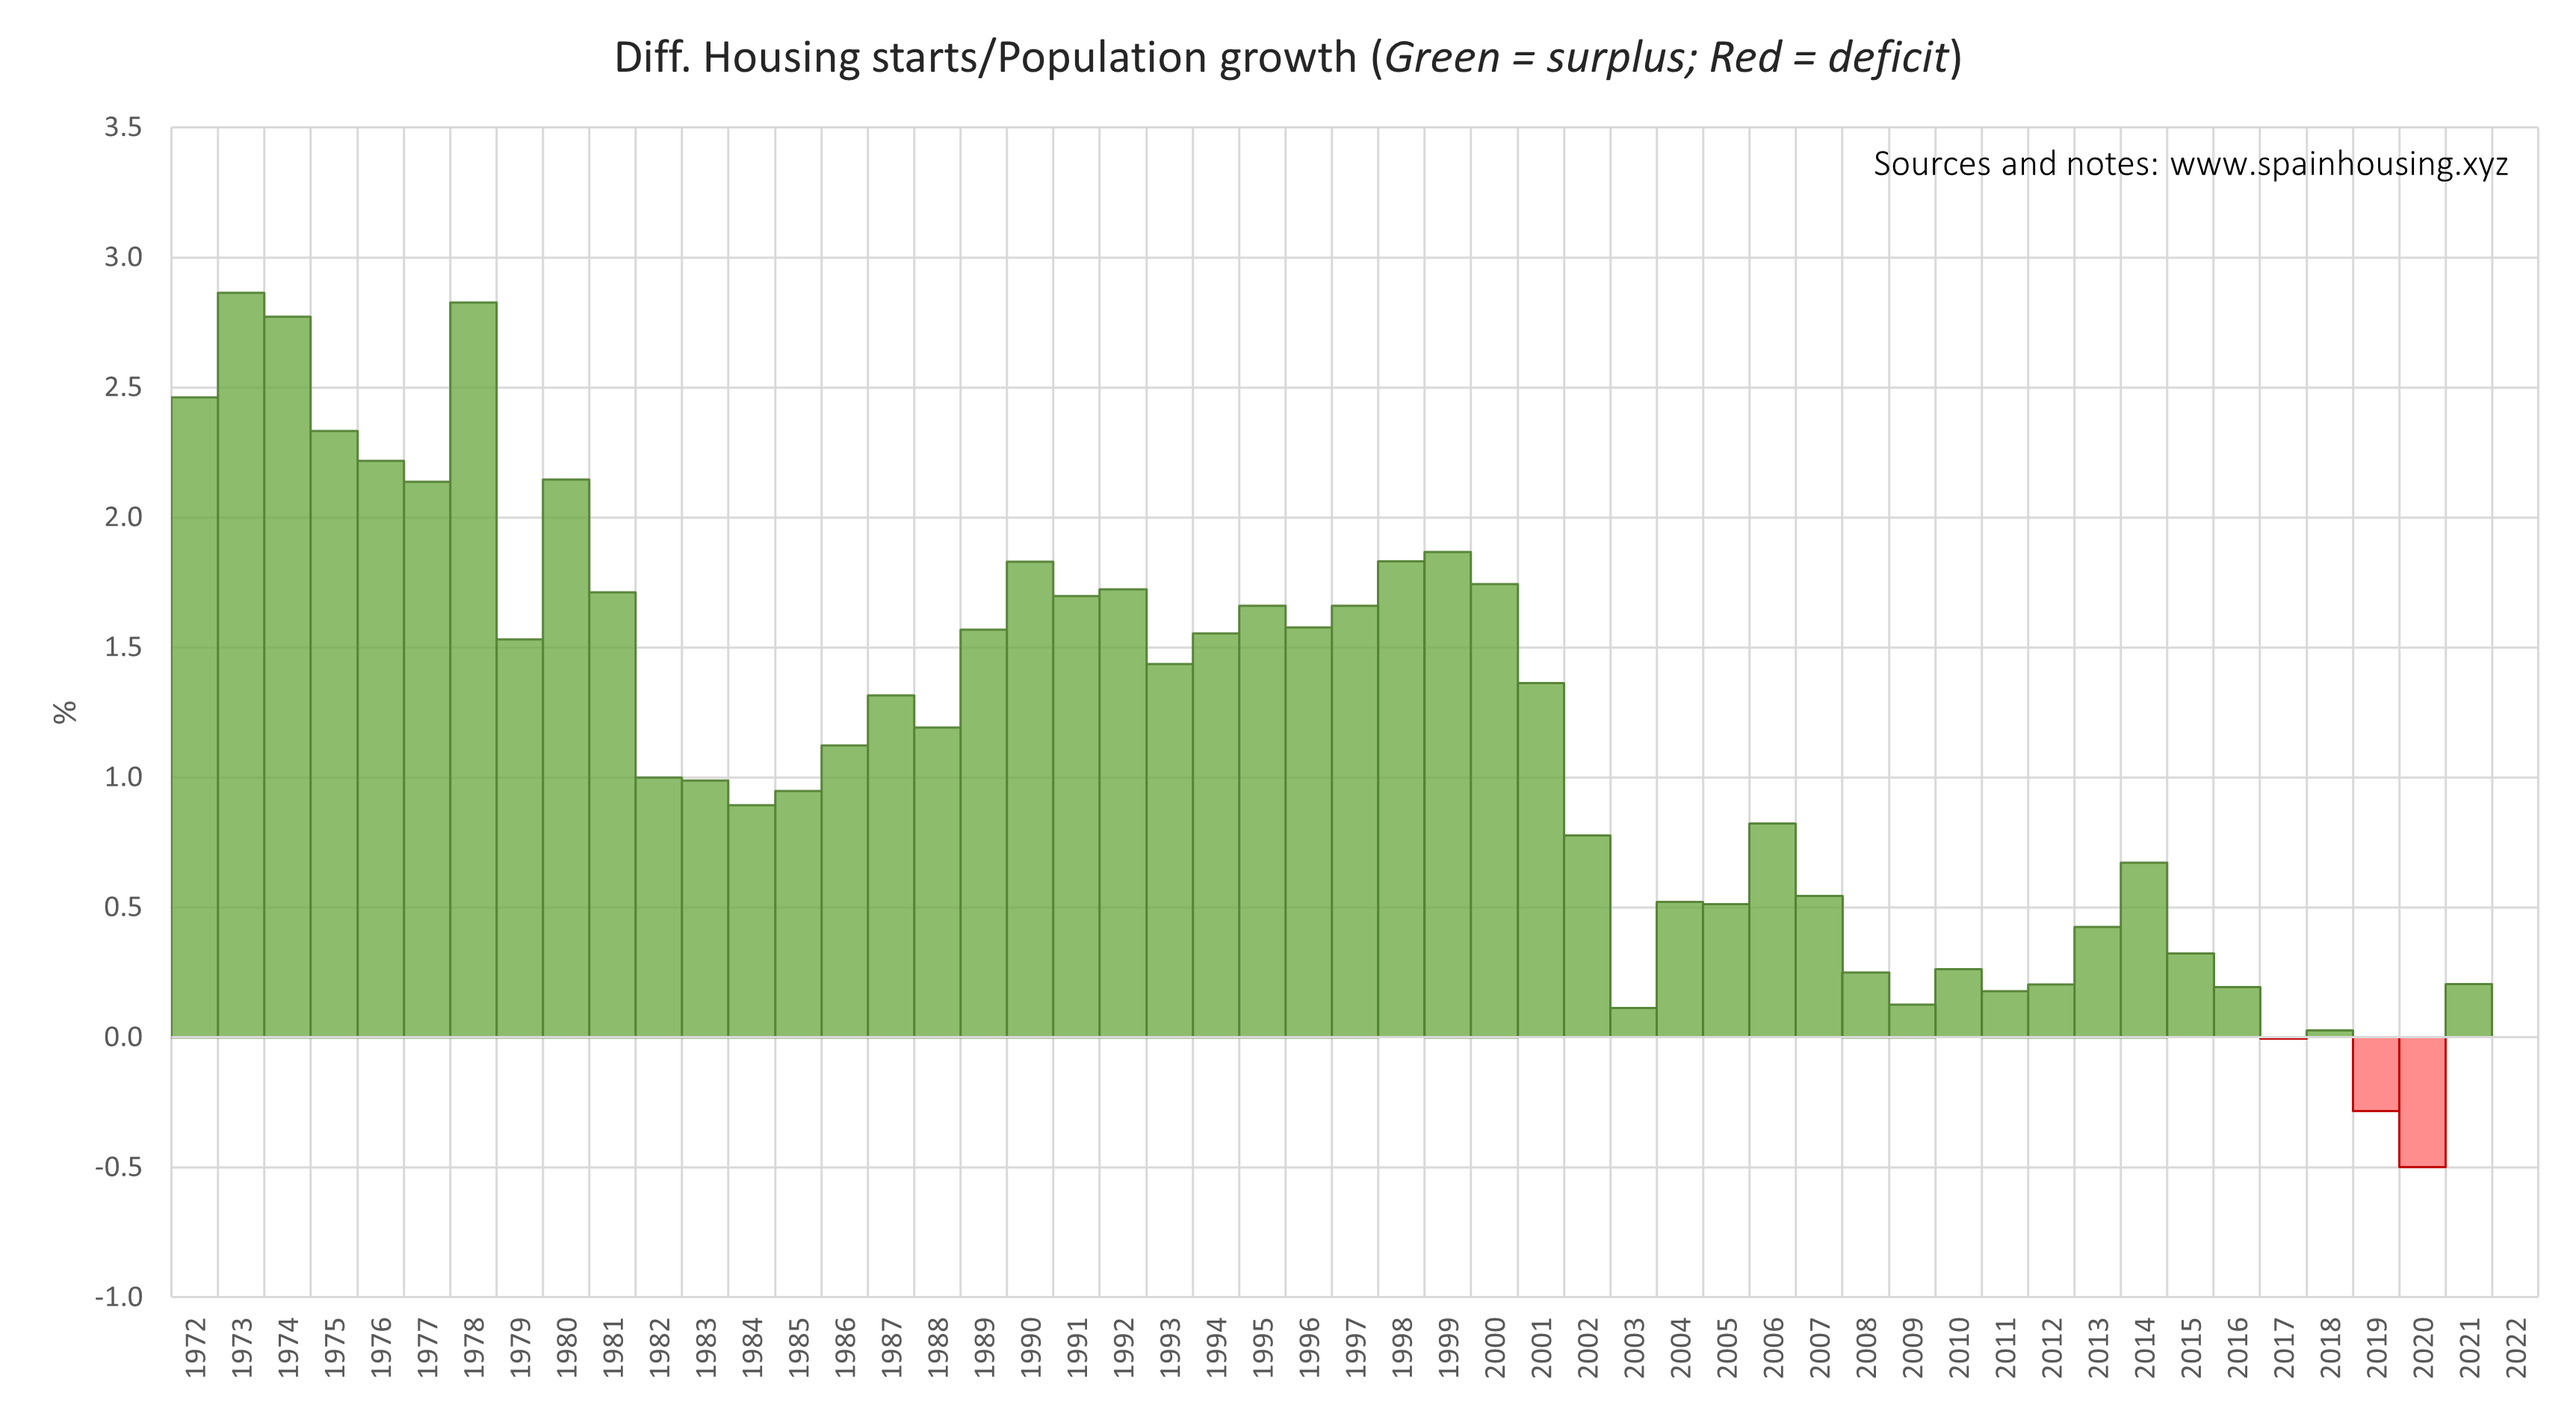
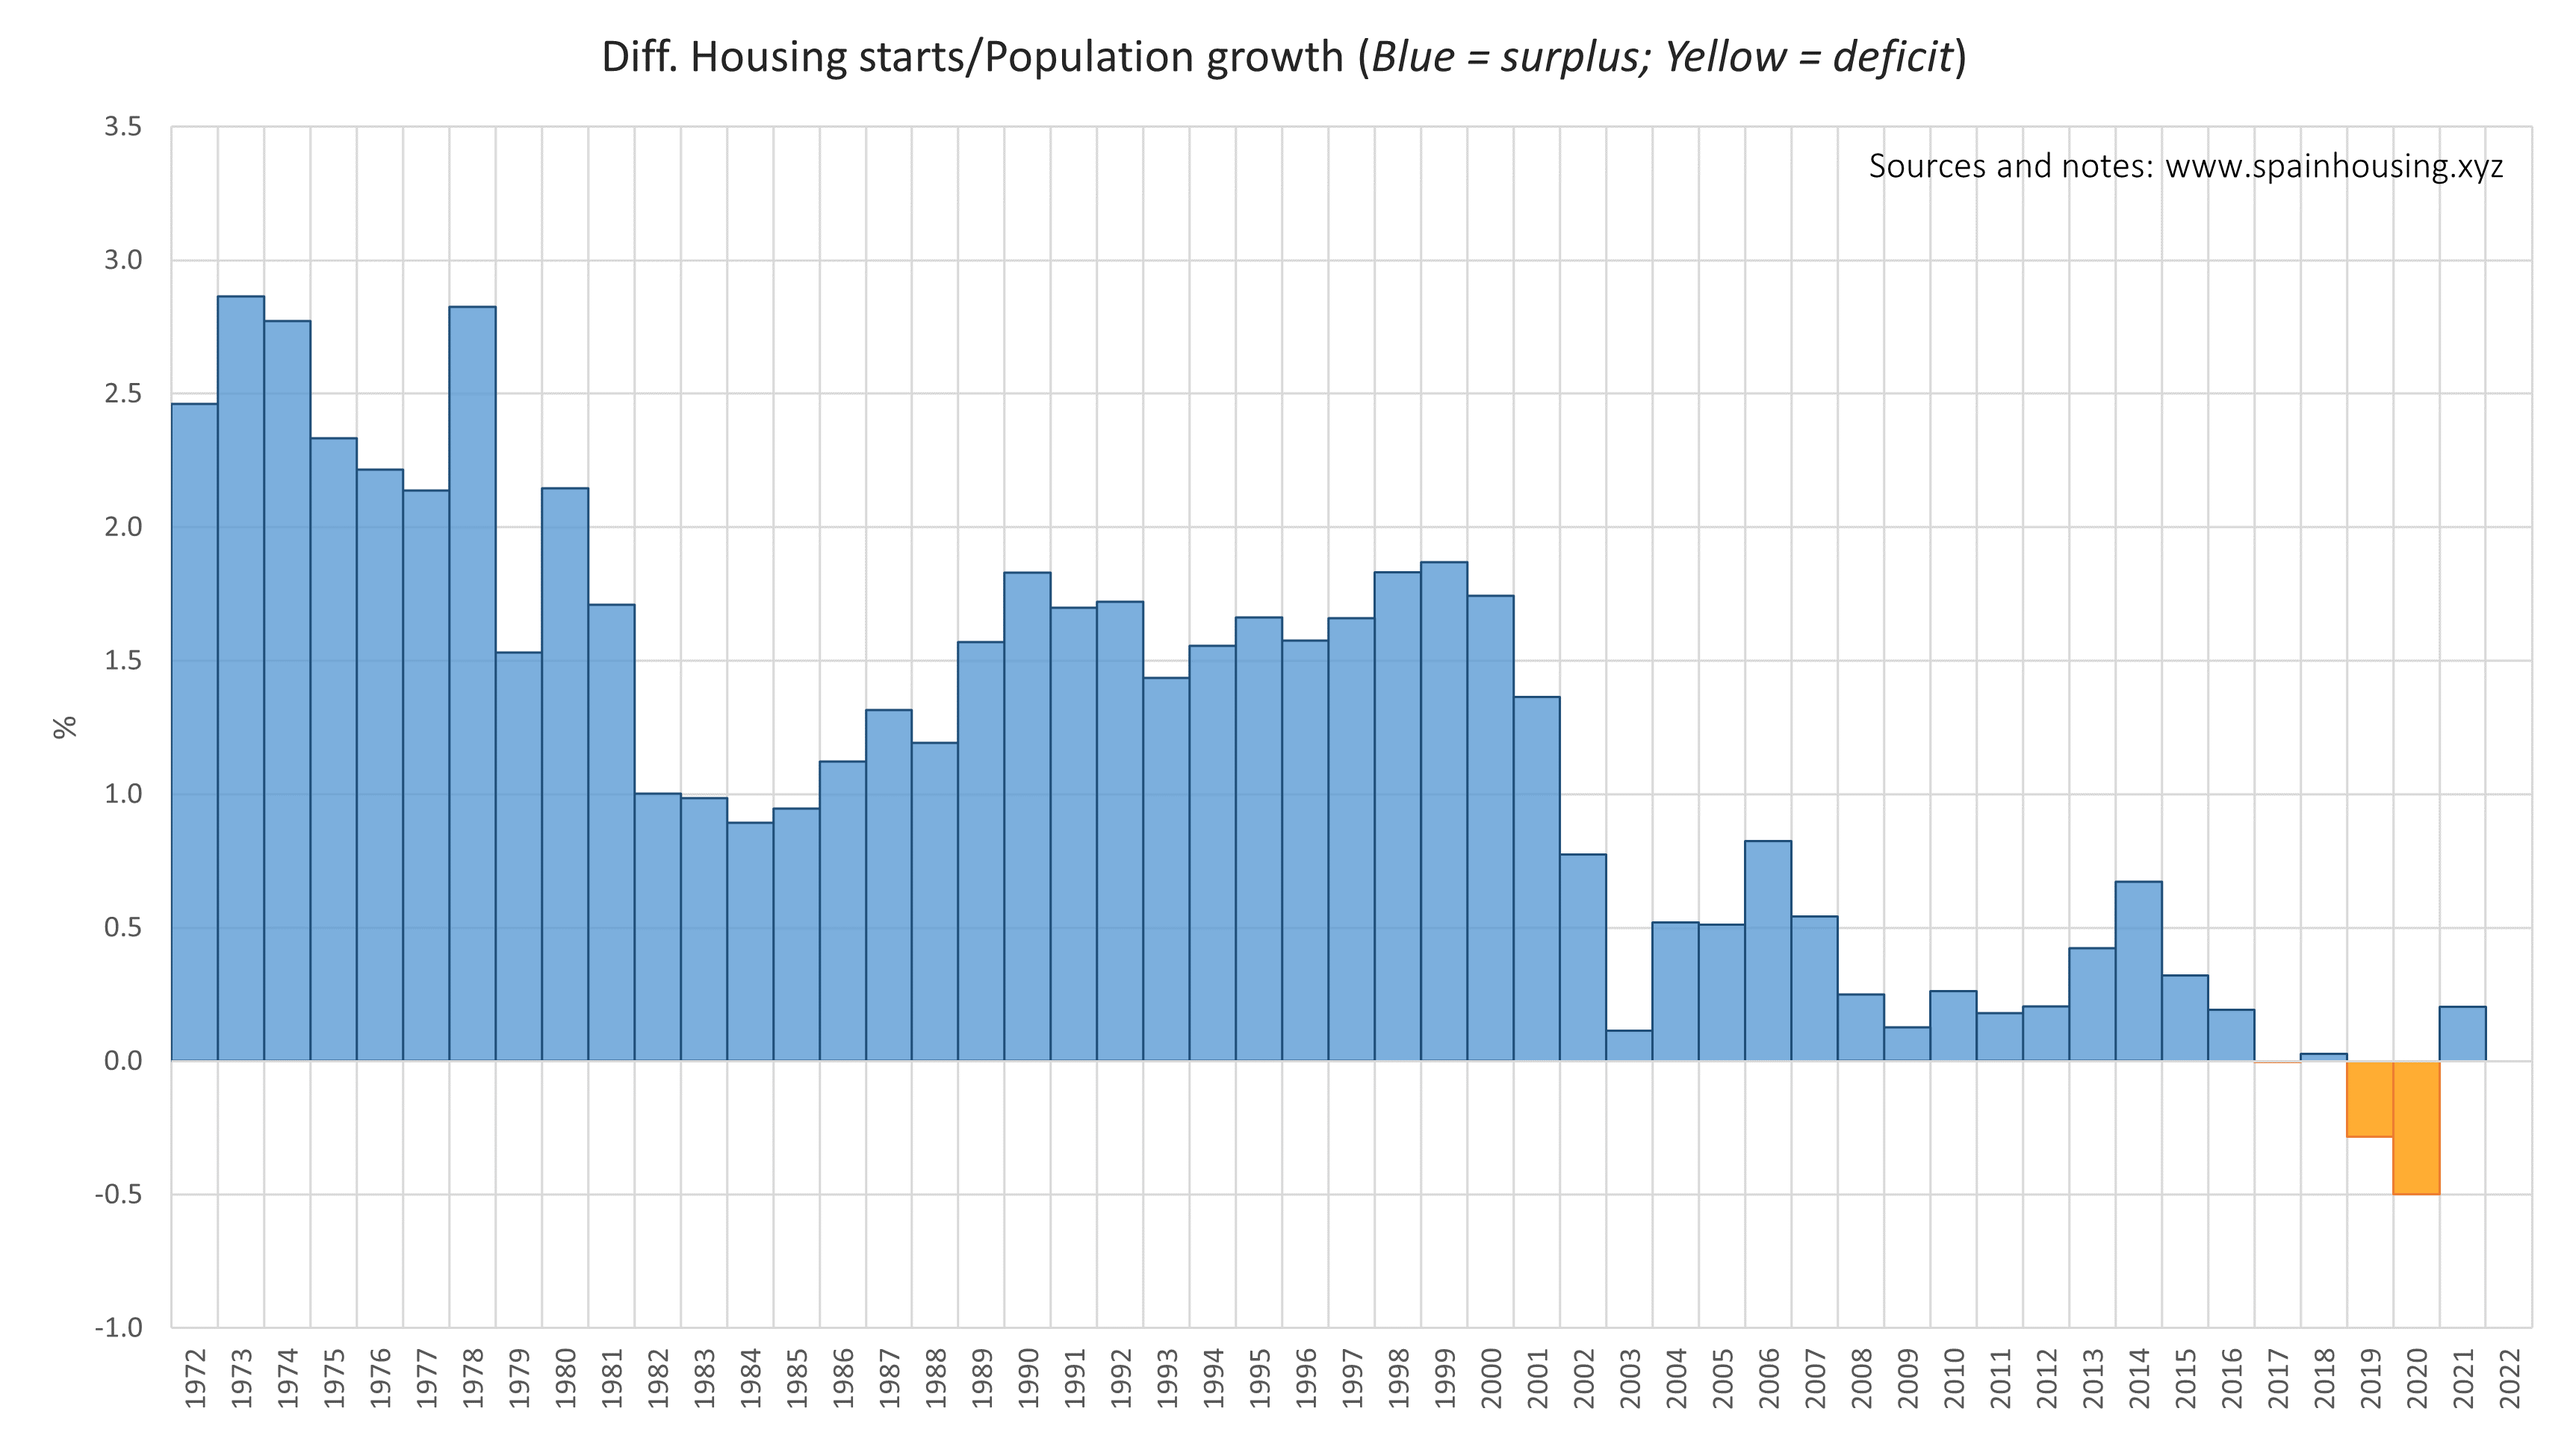
update

diff --git a/pages/posts/stock.md b/pages/posts/stock.md
@@ -21,7 +21,7 @@ import Image from 'next/image'
 
 [![Estoc y balance de viviendas](/images/stockbalance.png)](/images/stockbalance.png)
 
-- **Housing surplus or deficit**: Difference between housing growth and population growth. Green color implies housing surplus; red color implies housing deficit.
+- **Housing surplus or deficit**: Difference between housing growth and population growth. Blue color implies housing surplus; yellow color implies housing deficit.
 
 # Interpretation and observations
 
